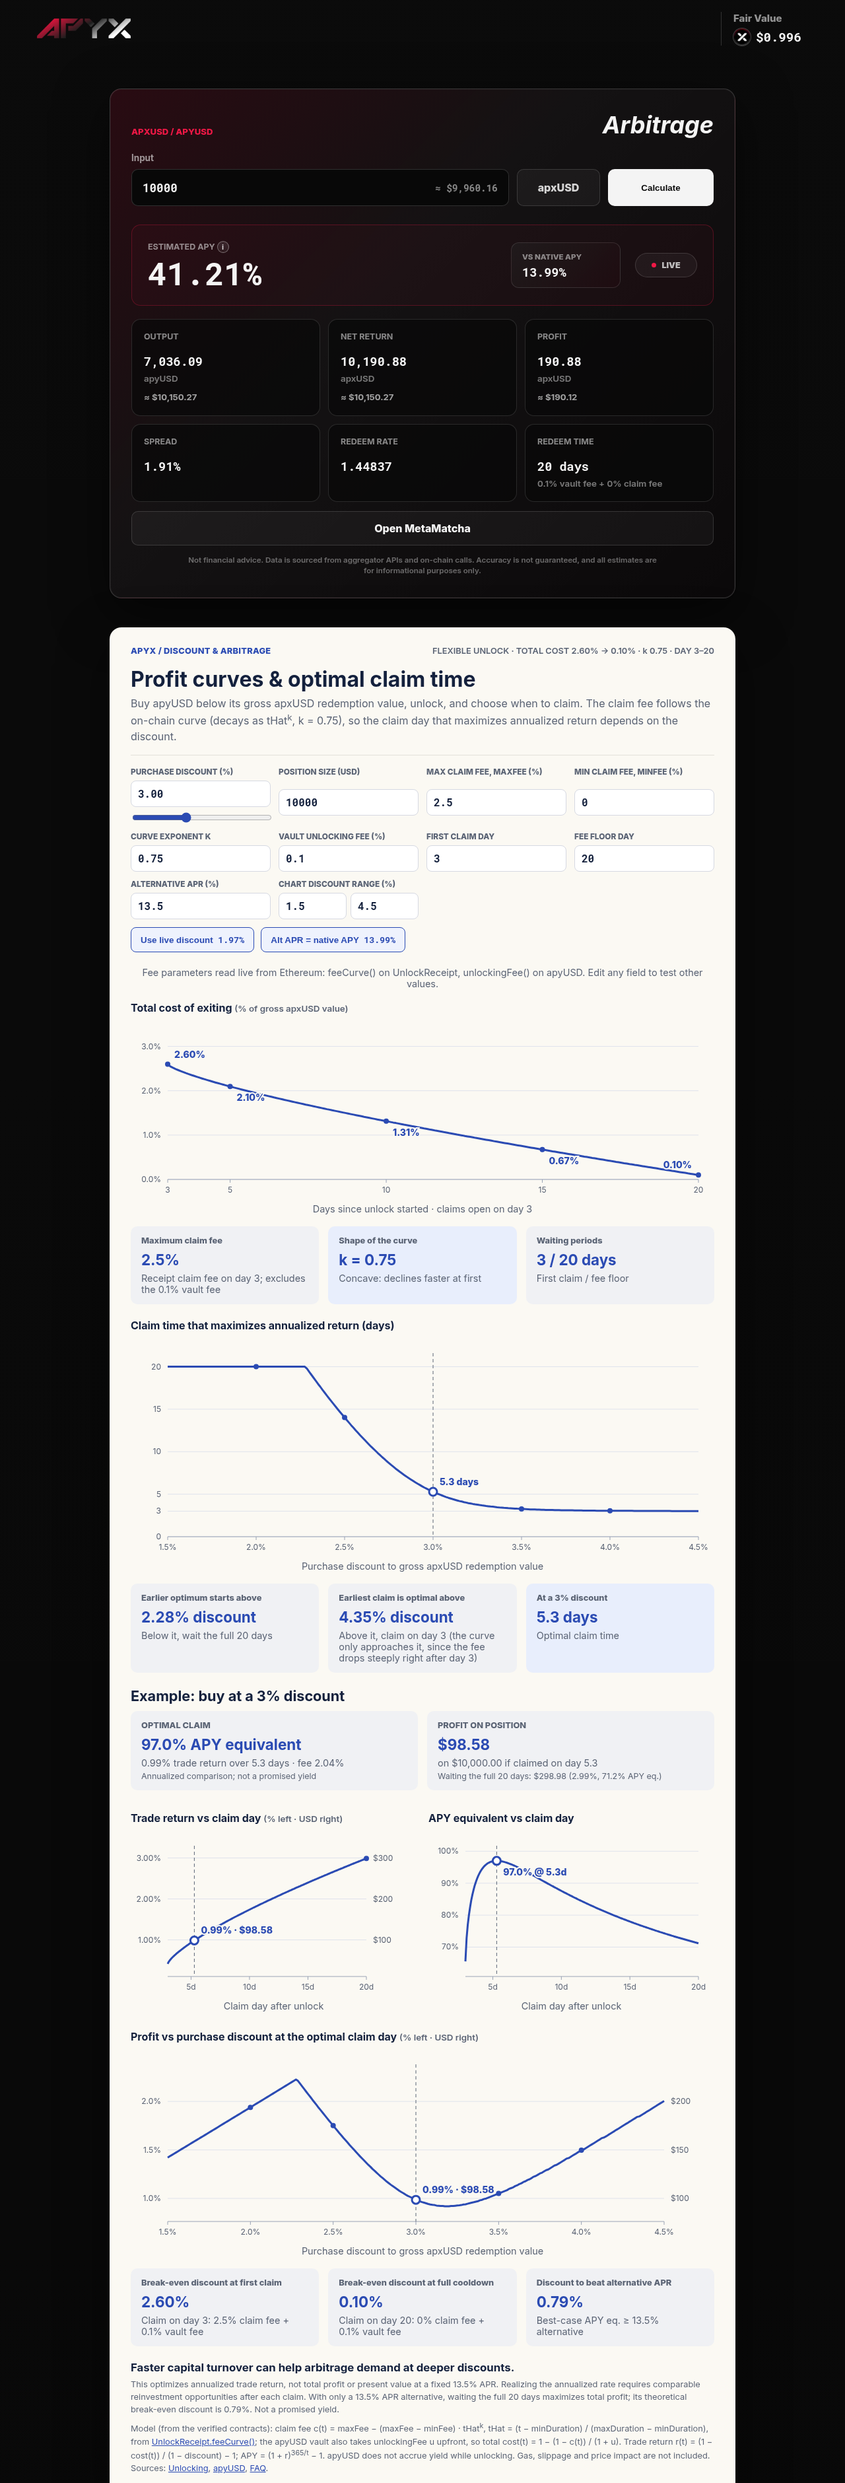
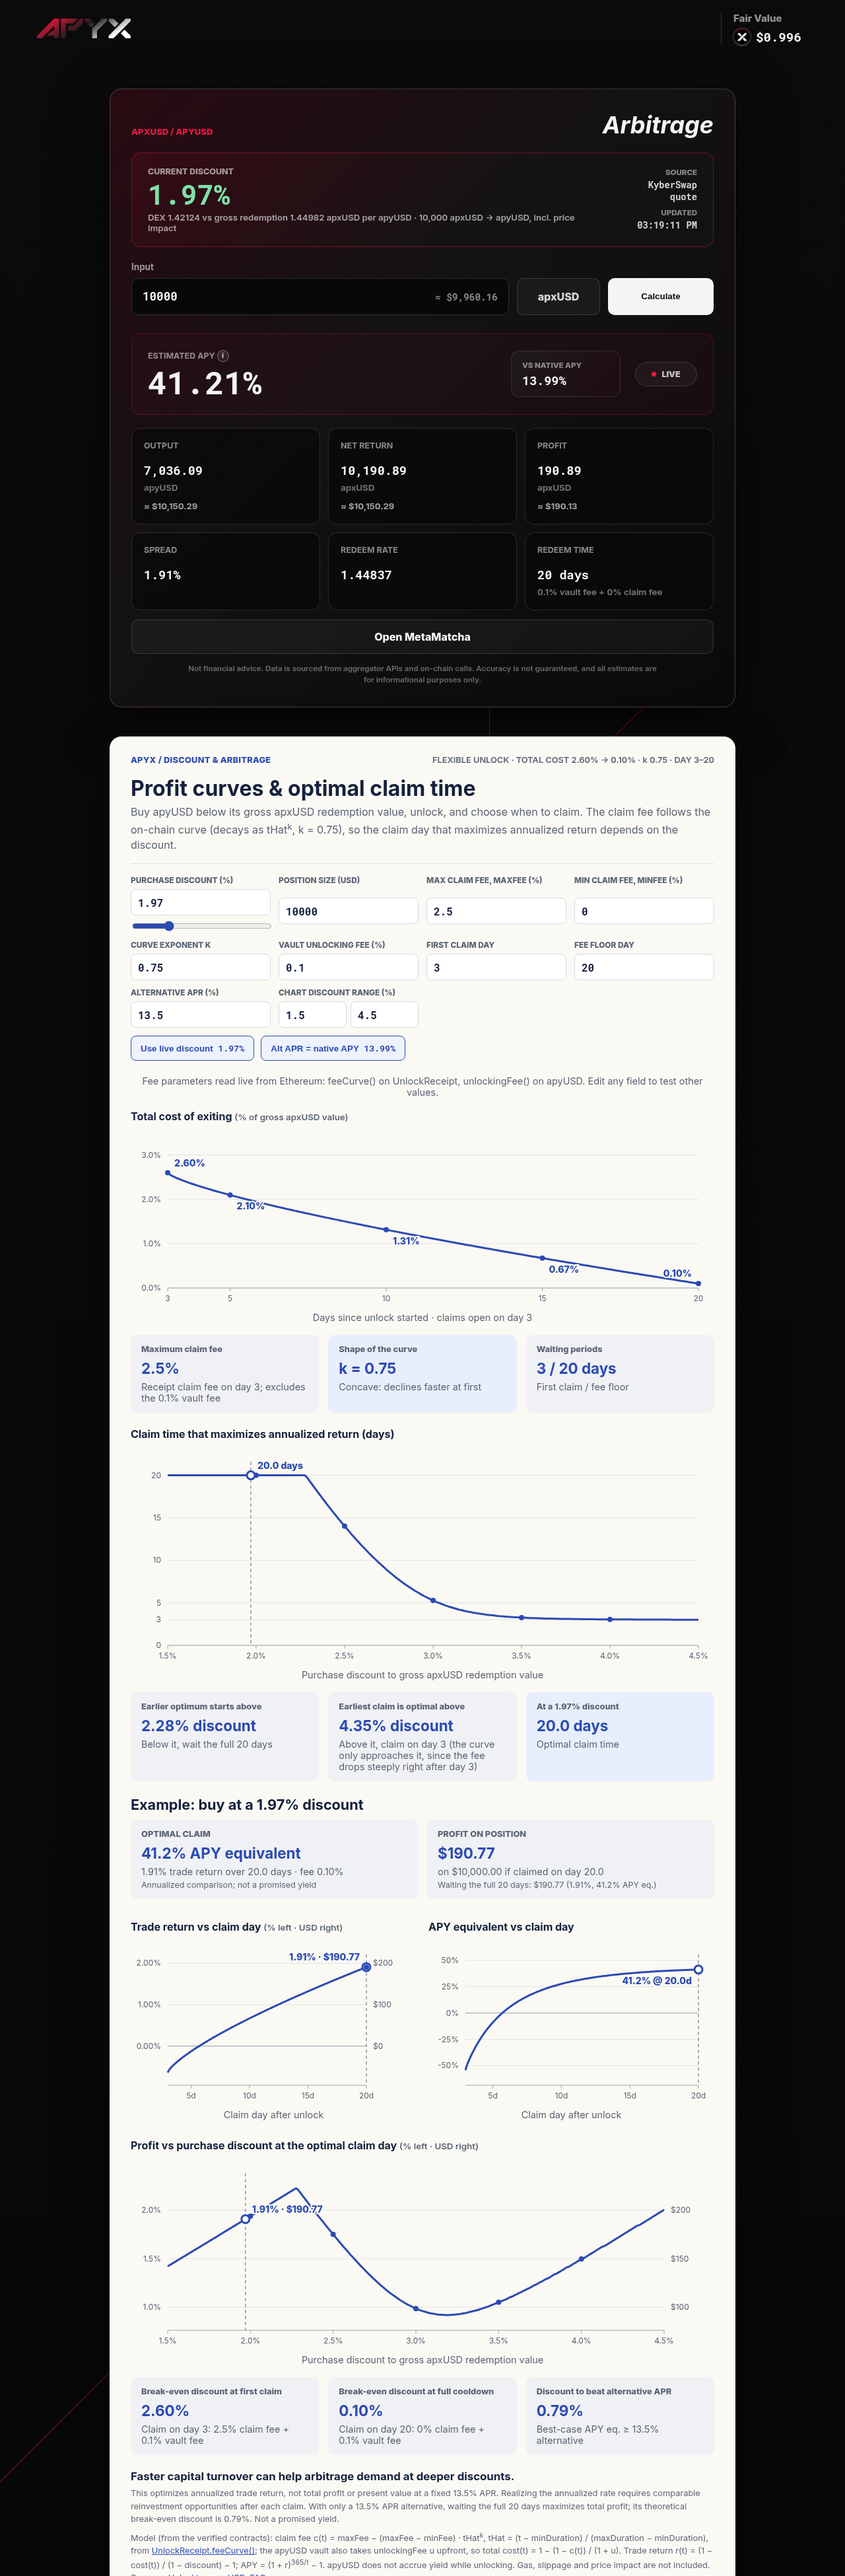
Add live DEX discount and prefill slider

diff --git a/README.md b/README.md
@@ -10,4 +10,6 @@ Fee model, verified against the on-chain source (Sourcify/Etherscan) and read li
 
 trade return r(t) = (1 − cost(t)) / (1 − discount) − 1; APY eq. = (1 + r)^(365/t) − 1. Optimizes annualized return, not total profit. Not financial advice.
 
+Current discount (top panel, refreshed every 30 s): `1 − DEX price / (redeemRate · (1 + u))`, DEX price = apxUSD per apyUSD from a KyberSwap 10,000 apxUSD quote (fallback: deepest apyUSD/apxUSD pool `priceNative` on DexScreener). It pre-fills the curves' discount input/slider and follows live refreshes until the discount is edited manually ("Use live discount" re-links it).
+
 `npm run build` copies `public/` to `dist/`.
